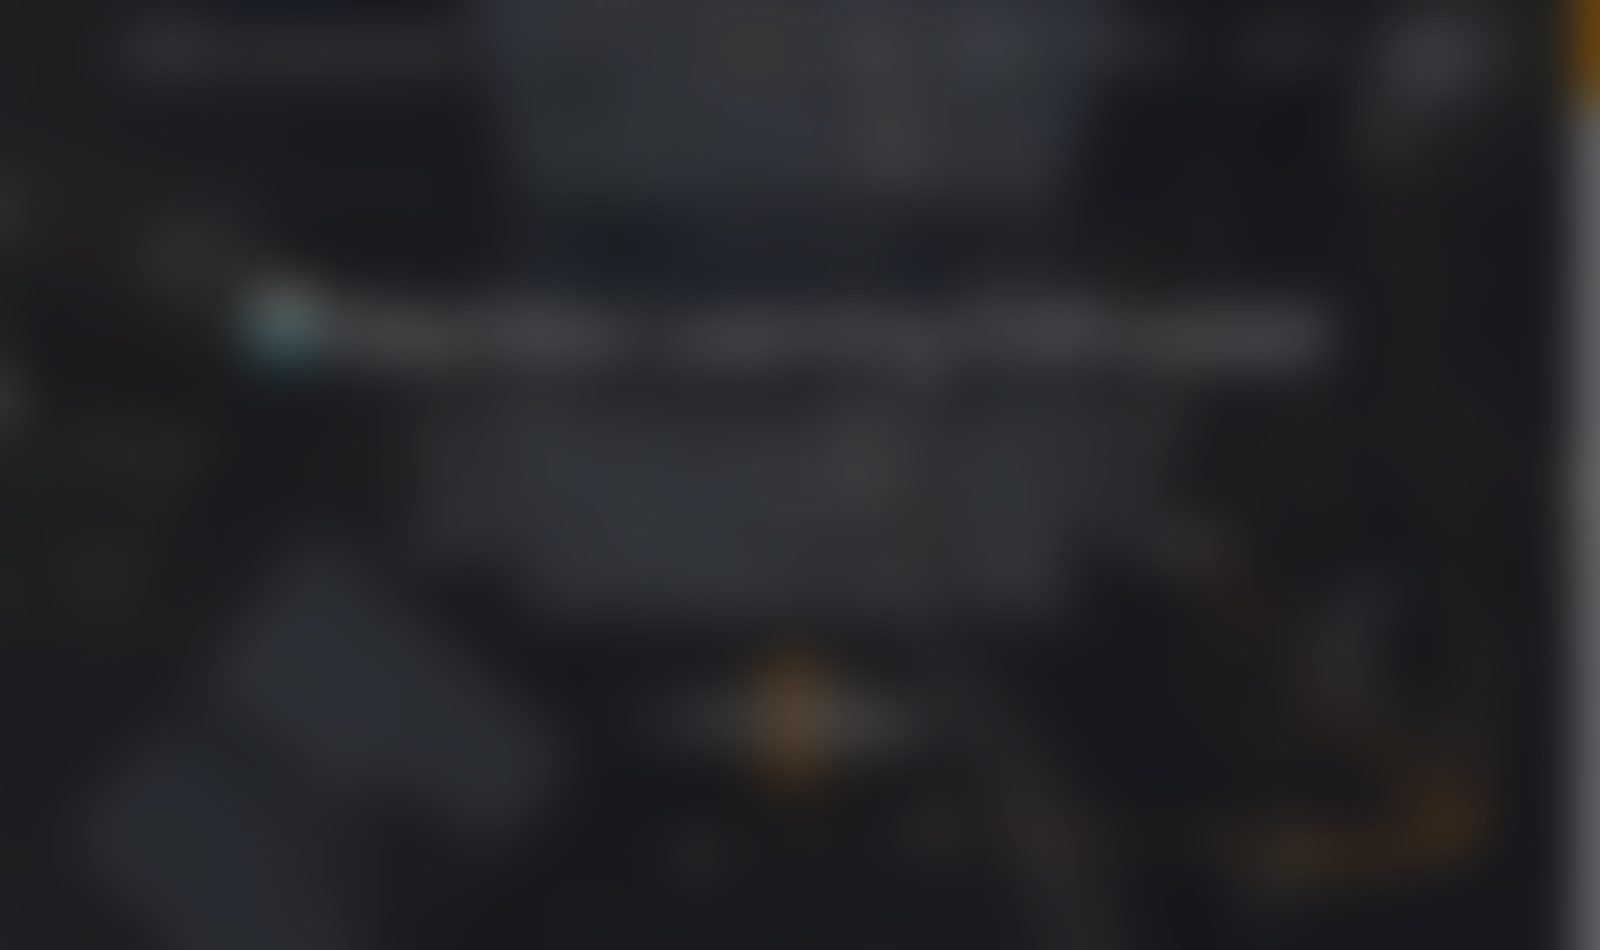
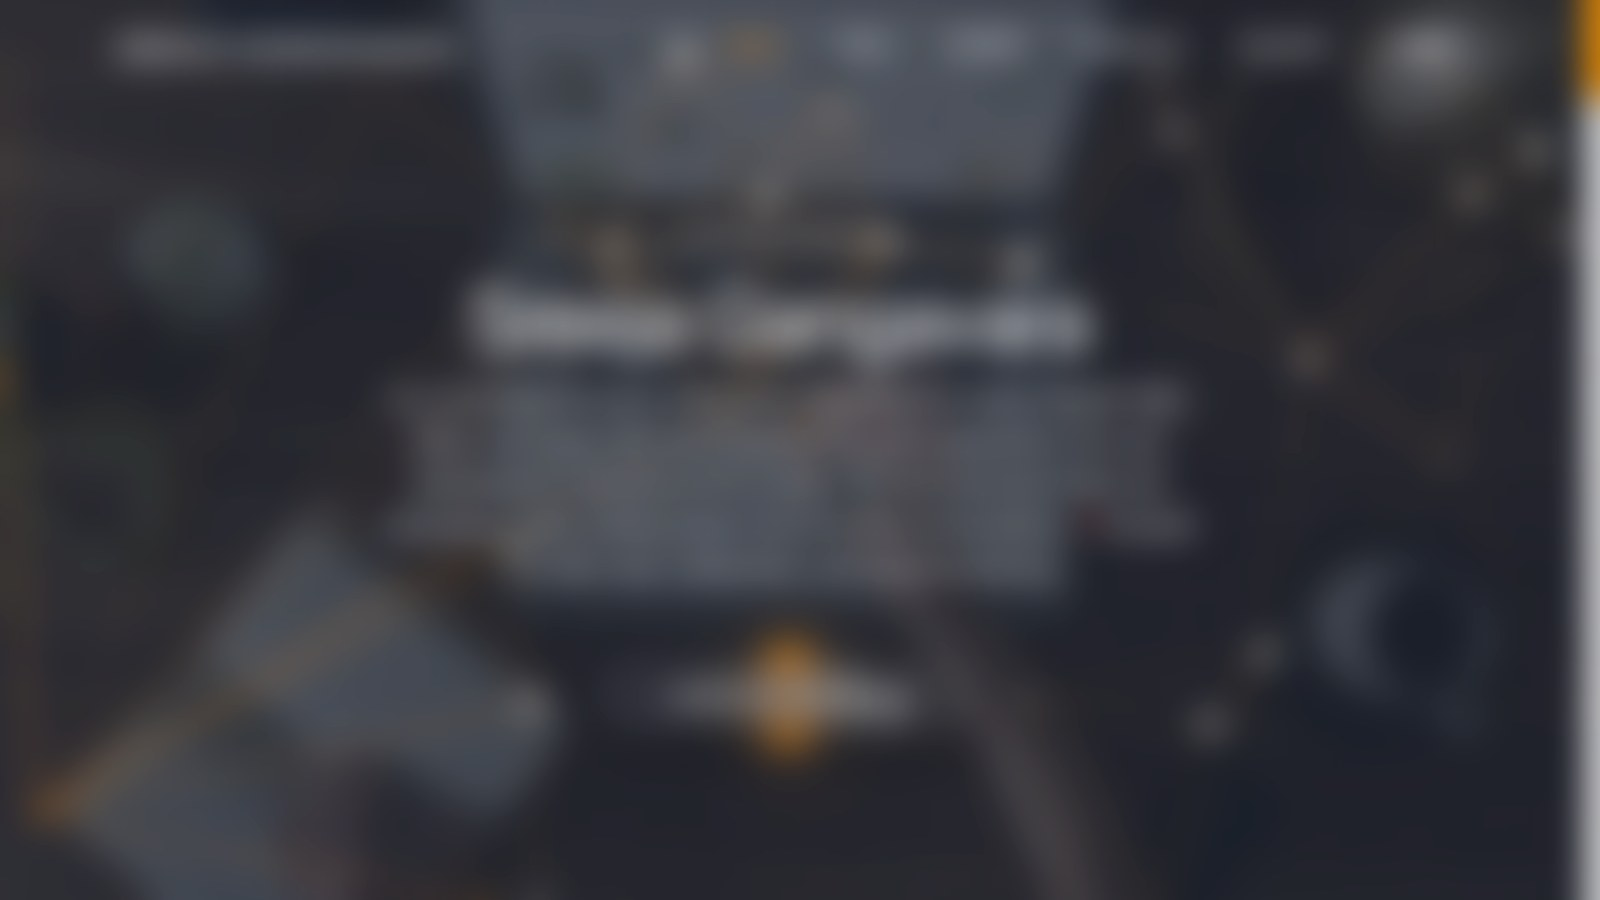
Add files via upload

diff --git a/style.css b/style.css
@@ -390,3 +390,38 @@ body:has(#home.reference-home) .nav:hover{background:rgba(24,27,35,.80)!importan
 .philosophy-rotator span{color:#f6f7f9!important;font-size:clamp(18px,2.4vw,29px);font-style:italic;font-weight:700;margin-top:24px;transition:opacity .45s ease}
 .philosophy-rotator.is-changing p,.philosophy-rotator.is-changing span{opacity:0}
 @media(max-width:700px){.philosophy-rotator{min-height:360px;padding:75px 18px!important}#portfolio.portfolio-new,#experience.experience-interactive,#contact.contact{background-position:center!important}}
+
+/* Reference-inspired page rhythm and layouts: clean white About, Experience, Education; photographic Home and Contact. */
+#home.reference-home{background:linear-gradient(rgba(15,18,25,.46),rgba(15,18,25,.58)),url("hero-background.jpg") center/cover no-repeat!important}
+#home.reference-home .reference-hero-inner{padding-top:100px!important}
+#about{padding-top:48px!important;padding-bottom:55px!important;background:#fff!important}
+#about .section-heading{margin-bottom:26px!important;padding-top:0!important}
+#about .section-heading .heading-icon{margin-bottom:6px!important}
+#about .tabs{margin-top:12px!important;margin-bottom:22px!important}
+#about #bio{padding-top:4px!important}
+#about #bio .portrait{width:175px!important;height:175px!important;margin:12px auto 20px!important}
+#about #bio h3{font-size:clamp(22px,2.6vw,35px)!important;line-height:1.45!important;margin:16px auto!important;max-width:1320px!important;text-align:center}
+#about #bio p{font-size:clamp(17px,1.6vw,23px)!important;line-height:1.7!important;max-width:1380px!important;text-align:center;margin:20px auto!important;color:#555!important}
+#portfolio.portfolio-new{background:#fff!important;color:#242934!important}
+#portfolio.portfolio-new::before{display:none!important}
+#portfolio.portfolio-new .particles{display:none!important}
+#portfolio.portfolio-new .section-heading h2{color:#242934!important}
+#portfolio.portfolio-new .section-heading p{color:#666!important}
+#portfolio.portfolio-new .section-heading .ghost{color:#d4d4d4!important}
+#portfolio .portfolio-cards{gap:22px!important}
+#portfolio .portfolio-card{border-radius:7px!important;box-shadow:0 6px 18px rgba(10,15,25,.12)!important;overflow:hidden!important}
+#portfolio .portfolio-overlay{background:rgba(35,40,51,.96)!important;color:white!important}
+#experience.experience-interactive{background:#fff!important;color:#242934!important}
+#experience.experience-interactive::before{display:none!important}
+#experience.experience-interactive .particles{display:none!important}
+#experience .section-heading h2{color:#242934!important}
+#experience .section-heading p{color:#666!important}
+#experience .section-heading .ghost{color:#d4d4d4!important}
+#experience .experience-flip{border:1.5px solid #ff9800!important;border-radius:6px!important;box-shadow:0 8px 22px rgba(0,0,0,.05)!important}
+#education{background:#fff!important}
+#education .sreeja-edu-card{background:#fff!important;color:#242934!important;border:1.5px solid #ff9800!important;border-radius:7px!important;min-height:300px!important;box-shadow:0 8px 22px rgba(0,0,0,.06)!important}
+#education .sreeja-edu-card h3{color:#242934!important}
+#education .sreeja-edu-card .edu-year{color:#777!important}
+#education .sreeja-edu-card img{height:115px!important}
+#contact.contact{background:linear-gradient(rgba(21,26,35,.85),rgba(21,26,35,.89)),url("hero-background.jpg") center/cover no-repeat!important}
+@media(max-width:720px){#about{padding-top:38px!important}#about #bio .portrait{width:140px!important;height:140px!important}#portfolio .portfolio-cards{gap:14px!important}}

diff --git a/index.html b/index.html
@@ -1,6 +1,6 @@
 <!DOCTYPE html>
 
-<html lang="en"><head><meta charset="utf-8"/><meta content="width=device-width,initial-scale=1" name="viewport"/><meta content="Vinay Kumar Dokku — Software Developer portfolio. Python, FastAPI, React, Angular, AWS and Azure." name="description"/><title>Vinay Kumar Dokku | Software Developer</title><link href="style.css?v=20261029-unified-dark-v2" rel="stylesheet"/>
+<html lang="en"><head><meta charset="utf-8"/><meta content="width=device-width,initial-scale=1" name="viewport"/><meta content="Vinay Kumar Dokku — Software Developer portfolio. Python, FastAPI, React, Angular, AWS and Azure." name="description"/><title>Vinay Kumar Dokku | Software Developer</title><link href="style.css?v=20261029-reference-layout-v5" rel="stylesheet"/>
 <style>
 /* Explicit styles for education cards and alternating About education timeline */
 .sreeja-edu-grid{display:grid;grid-template-columns:repeat(3,minmax(0,1fr));gap:clamp(18px,4vw,75px);max-width:1360px;margin:20px auto 0;align-items:stretch}
